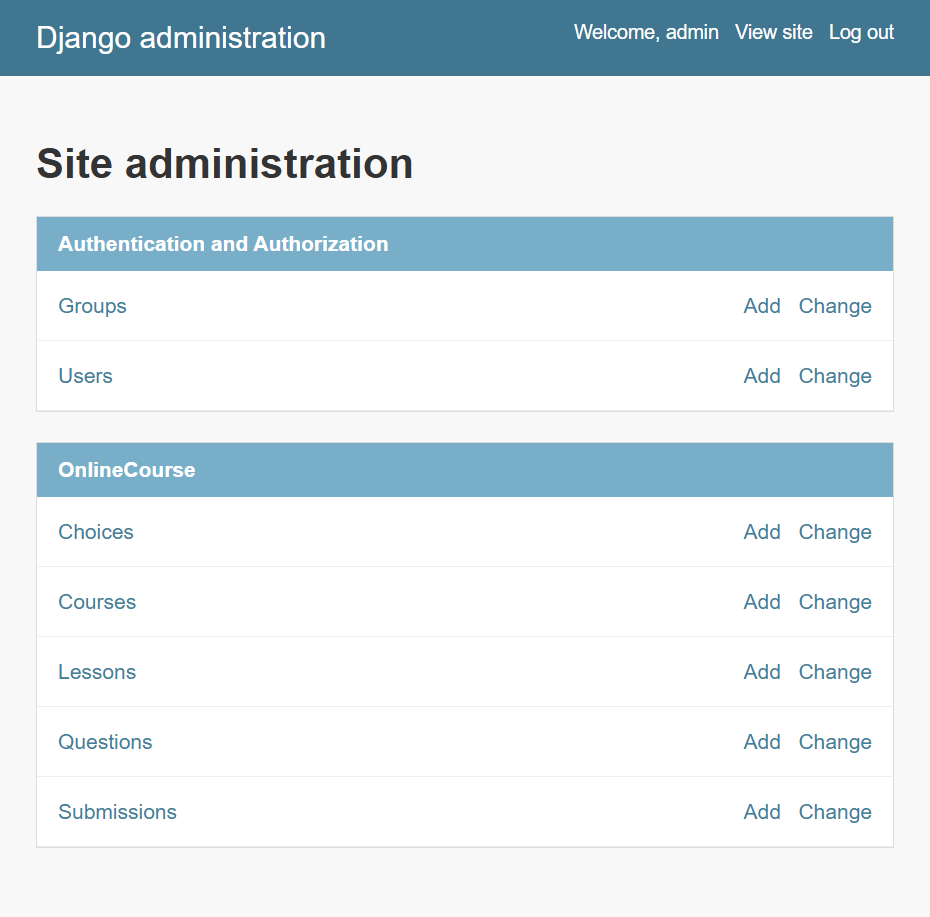
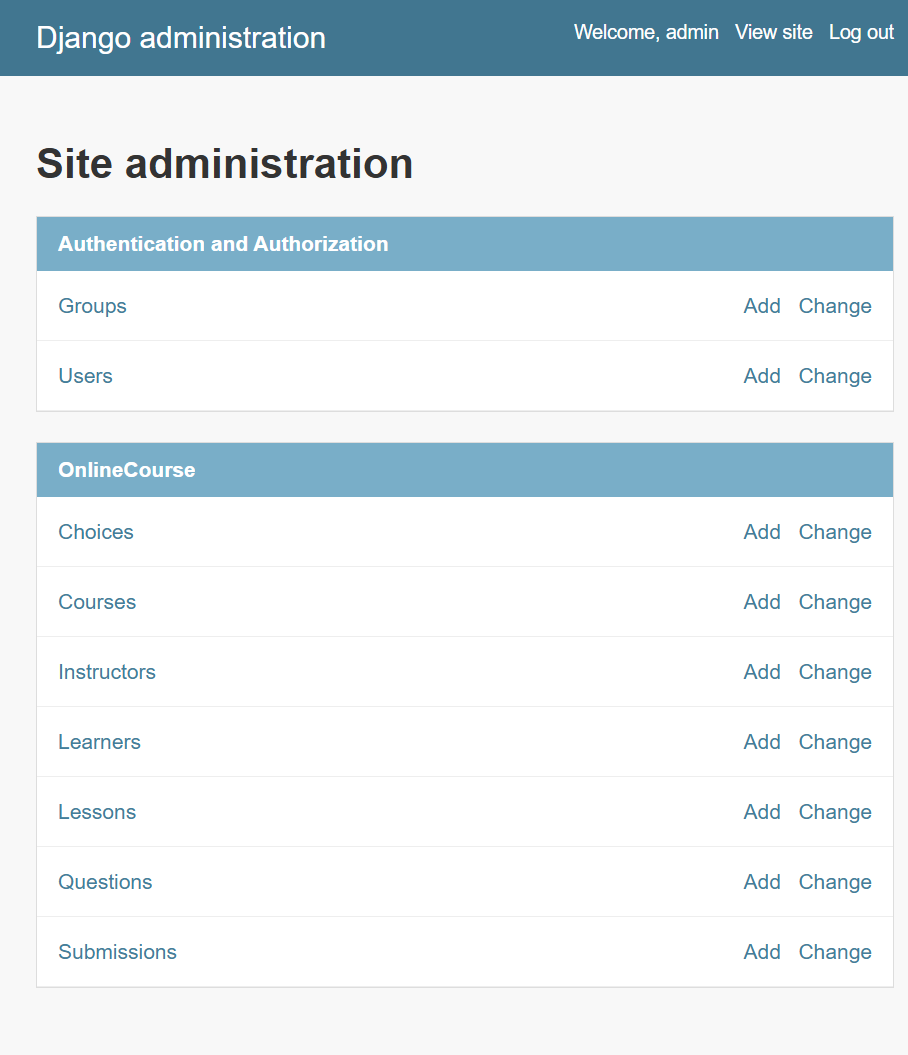
Align assessment models admin and exam flow

diff --git a/templates/exam.html b/templates/exam.html
@@ -6,9 +6,9 @@
   <form method="post" class="card border-0 shadow-sm"><div class="card-body p-4">
     {% csrf_token %}
     {% for question in questions %}
-    <fieldset class="mb-4"><legend class="h5">{{ forloop.counter }}. {{ question.text }}</legend>
-      {% for choice in question.choices.all %}
-      <div class="form-check my-2"><input class="form-check-input" type="radio" name="question_{{ question.id }}" value="{{ choice.id }}" id="choice{{ choice.id }}" required><label class="form-check-label" for="choice{{ choice.id }}">{{ choice.text }}</label></div>
+    <fieldset class="mb-4"><legend class="h5">{{ forloop.counter }}. {{ question.question_text }}</legend>
+      {% for choice in question.choice_set.all %}
+      <div class="form-check my-2"><input class="form-check-input" type="radio" name="question_{{ question.id }}" value="{{ choice.id }}" id="choice{{ choice.id }}" required><label class="form-check-label" for="choice{{ choice.id }}">{{ choice.choice_text }}</label></div>
       {% endfor %}
     </fieldset>
     {% endfor %}
@@ -16,4 +16,3 @@
   </div></form>
 </div></div>
 {% endblock %}
-

diff --git a/screenshot-previews/03-admin-site.html b/screenshot-previews/03-admin-site.html
@@ -9,6 +9,8 @@
 <div class="card"><div class="title">OnlineCourse</div>
 <div class="row"><span class="link">Choices</span><span class="link">Add &nbsp; Change</span></div>
 <div class="row"><span class="link">Courses</span><span class="link">Add &nbsp; Change</span></div>
+<div class="row"><span class="link">Instructors</span><span class="link">Add &nbsp; Change</span></div>
+<div class="row"><span class="link">Learners</span><span class="link">Add &nbsp; Change</span></div>
 <div class="row"><span class="link">Lessons</span><span class="link">Add &nbsp; Change</span></div>
 <div class="row"><span class="link">Questions</span><span class="link">Add &nbsp; Change</span></div>
 <div class="row"><span class="link">Submissions</span><span class="link">Add &nbsp; Change</span></div></div></div></body></html>

diff --git a/templates/course_details_bootstrap.html b/templates/course_details_bootstrap.html
@@ -12,7 +12,7 @@
     </div>
     <h2 class="h4 mb-3">Lessons</h2>
     <div class="list-group shadow-sm">
-      {% for lesson in course.lessons.all %}
+      {% for lesson in course.lesson_set.all %}
       <div class="list-group-item p-4 d-flex justify-content-between align-items-center">
         <div><span class="badge rounded-pill text-bg-light me-2">{{ forloop.counter }}</span><strong>{{ lesson.title }}</strong></div>
         <a class="btn btn-outline-primary" href="{% url 'submit' lesson.id %}">Take exam</a>
@@ -24,4 +24,3 @@
   </div>
 </div>
 {% endblock %}
-

diff --git a/onlinecourse/models.py b/onlinecourse/models.py
@@ -14,8 +14,24 @@ class Course(models.Model):
         return self.name
 
 
+class Instructor(models.Model):
+    user = models.OneToOneField(User, on_delete=models.CASCADE)
+    courses = models.ManyToManyField(Course, blank=True, related_name="instructors")
+
+    def __str__(self):
+        return self.user.get_full_name() or self.user.username
+
+
+class Learner(models.Model):
+    user = models.OneToOneField(User, on_delete=models.CASCADE)
+    courses = models.ManyToManyField(Course, blank=True, related_name="learners")
+
+    def __str__(self):
+        return self.user.get_full_name() or self.user.username
+
+
 class Lesson(models.Model):
-    course = models.ForeignKey(Course, on_delete=models.CASCADE, related_name="lessons")
+    course = models.ForeignKey(Course, on_delete=models.CASCADE)
     title = models.CharField(max_length=200)
     content = models.TextField()
     order = models.PositiveIntegerField(default=1)
@@ -28,29 +44,38 @@ class Lesson(models.Model):
 
 
 class Question(models.Model):
-    lesson = models.ForeignKey(Lesson, on_delete=models.CASCADE, related_name="questions")
-    text = models.CharField(max_length=500)
+    lesson = models.ForeignKey(Lesson, on_delete=models.CASCADE)
+    question_text = models.CharField(max_length=500)
     order = models.PositiveIntegerField(default=1)
 
     class Meta:
         ordering = ["order", "id"]
 
     def __str__(self):
-        return self.text
+        return self.question_text
+
+    @property
+    def text(self):
+        return self.question_text
 
 
 class Choice(models.Model):
-    question = models.ForeignKey(Question, on_delete=models.CASCADE, related_name="choices")
-    text = models.CharField(max_length=300)
+    question = models.ForeignKey(Question, on_delete=models.CASCADE)
+    choice_text = models.CharField(max_length=300)
     is_correct = models.BooleanField(default=False)
 
     def __str__(self):
-        return self.text
+        return self.choice_text
+
+    @property
+    def text(self):
+        return self.choice_text
 
 
 class Submission(models.Model):
     user = models.ForeignKey(User, on_delete=models.CASCADE, null=True, blank=True)
-    lesson = models.ForeignKey(Lesson, on_delete=models.CASCADE, related_name="submissions")
+    lesson = models.ForeignKey(Lesson, on_delete=models.CASCADE)
+    selected_choices = models.JSONField(default=dict, blank=True)
     score = models.PositiveIntegerField(default=0)
     total_questions = models.PositiveIntegerField(default=0)
     submitted_at = models.DateTimeField(auto_now_add=True)
@@ -61,6 +86,8 @@ class Submission(models.Model):
             return 0
         return round(self.score / self.total_questions * 100)
 
+    def get_score(self):
+        return self.score
+
     def __str__(self):
         return f"{self.lesson.title} - {self.score}/{self.total_questions}"
-

diff --git a/onlinecourse/migrations/0002_add_people_and_assessment_fields.py b/onlinecourse/migrations/0002_add_people_and_assessment_fields.py
@@ -1,0 +1,62 @@
+from django.db import migrations, models
+import django.db.models.deletion
+
+
+class Migration(migrations.Migration):
+    dependencies = [
+        ("onlinecourse", "0001_initial"),
+    ]
+
+    operations = [
+        migrations.CreateModel(
+            name="Instructor",
+            fields=[
+                ("id", models.BigAutoField(auto_created=True, primary_key=True, serialize=False, verbose_name="ID")),
+                ("courses", models.ManyToManyField(blank=True, related_name="instructors", to="onlinecourse.course")),
+                ("user", models.OneToOneField(on_delete=django.db.models.deletion.CASCADE, to="auth.user")),
+            ],
+        ),
+        migrations.CreateModel(
+            name="Learner",
+            fields=[
+                ("id", models.BigAutoField(auto_created=True, primary_key=True, serialize=False, verbose_name="ID")),
+                ("courses", models.ManyToManyField(blank=True, related_name="learners", to="onlinecourse.course")),
+                ("user", models.OneToOneField(on_delete=django.db.models.deletion.CASCADE, to="auth.user")),
+            ],
+        ),
+        migrations.RenameField(
+            model_name="question",
+            old_name="text",
+            new_name="question_text",
+        ),
+        migrations.RenameField(
+            model_name="choice",
+            old_name="text",
+            new_name="choice_text",
+        ),
+        migrations.AddField(
+            model_name="submission",
+            name="selected_choices",
+            field=models.JSONField(blank=True, default=dict),
+        ),
+        migrations.AlterField(
+            model_name="choice",
+            name="question",
+            field=models.ForeignKey(on_delete=django.db.models.deletion.CASCADE, to="onlinecourse.question"),
+        ),
+        migrations.AlterField(
+            model_name="lesson",
+            name="course",
+            field=models.ForeignKey(on_delete=django.db.models.deletion.CASCADE, to="onlinecourse.course"),
+        ),
+        migrations.AlterField(
+            model_name="question",
+            name="lesson",
+            field=models.ForeignKey(on_delete=django.db.models.deletion.CASCADE, to="onlinecourse.lesson"),
+        ),
+        migrations.AlterField(
+            model_name="submission",
+            name="lesson",
+            field=models.ForeignKey(on_delete=django.db.models.deletion.CASCADE, to="onlinecourse.lesson"),
+        ),
+    ]

diff --git a/onlinecourse/views.py b/onlinecourse/views.py
@@ -10,18 +10,23 @@ def course_details(request, course_id):
 
 def submit(request, lesson_id):
     lesson = get_object_or_404(Lesson, pk=lesson_id)
-    questions = list(lesson.questions.prefetch_related("choices"))
+    questions = list(lesson.question_set.prefetch_related("choice_set"))
     score = 0
+    selected_choices = {}
     if request.method == "POST":
         for question in questions:
             selected = request.POST.get(f"question_{question.pk}")
-            if selected and question.choices.filter(pk=selected, is_correct=True).exists():
+            selected_choices[str(question.pk)] = selected
+            if selected and question.choice_set.filter(
+                pk=selected, is_correct=True
+            ).exists():
                 score += 1
         submission = Submission.objects.create(
             user=request.user if request.user.is_authenticated else None,
             lesson=lesson,
             score=score,
             total_questions=len(questions),
+            selected_choices=selected_choices,
         )
         return redirect("show_exam_result", submission_id=submission.pk)
     return render(request, "exam.html", {"lesson": lesson, "questions": questions})
@@ -29,6 +34,16 @@ def submit(request, lesson_id):
 
 def show_exam_result(request, submission_id):
     submission = get_object_or_404(
-        Submission.objects.select_related("lesson"), pk=submission_id
+        Submission.objects.select_related("lesson", "user"), pk=submission_id
     )
-    return render(request, "exam_result.html", {"submission": submission})
+    return render(
+        request,
+        "exam_result.html",
+        {
+            "submission": submission,
+            "score": submission.score,
+            "total_questions": submission.total_questions,
+            "percentage": submission.percentage,
+            "selected_choices": submission.selected_choices,
+        },
+    )

diff --git a/onlinecourse/admin.py b/onlinecourse/admin.py
@@ -2,7 +2,15 @@ from django.contrib import admin
 from django.contrib.auth.admin import UserAdmin
 from django.contrib.auth.models import Group, User
 
-from .models import Choice, Course, Lesson, Question, Submission
+from .models import (
+    Choice,
+    Course,
+    Instructor,
+    Learner,
+    Lesson,
+    Question,
+    Submission,
+)
 
 
 class ChoiceInline(admin.TabularInline):
@@ -18,7 +26,7 @@ class QuestionInline(admin.StackedInline):
 
 @admin.register(Question)
 class QuestionAdmin(admin.ModelAdmin):
-    list_display = ("text", "lesson", "order")
+    list_display = ("question_text", "lesson", "order")
     list_filter = ("lesson__course",)
     ordering = ("lesson", "order")
     inlines = [ChoiceInline]
@@ -40,7 +48,7 @@ class CourseAdmin(admin.ModelAdmin):
 
 @admin.register(Choice)
 class ChoiceAdmin(admin.ModelAdmin):
-    list_display = ("text", "question", "is_correct")
+    list_display = ("choice_text", "question", "is_correct")
     list_filter = ("is_correct",)
 
 
@@ -50,8 +58,19 @@ class SubmissionAdmin(admin.ModelAdmin):
     readonly_fields = ("submitted_at",)
 
 
+@admin.register(Instructor)
+class InstructorAdmin(admin.ModelAdmin):
+    list_display = ("user",)
+    filter_horizontal = ("courses",)
+
+
+@admin.register(Learner)
+class LearnerAdmin(admin.ModelAdmin):
+    list_display = ("user",)
+    filter_horizontal = ("courses",)
+
+
 admin.site.unregister(User)
 admin.site.register(User, UserAdmin)
 admin.site.unregister(Group)
 admin.site.register(Group)
-

diff --git a/onlinecourse/urls.py b/onlinecourse/urls.py
@@ -6,11 +6,16 @@ from . import views
 urlpatterns = [
     path("admin/", admin.site.urls),
     path("course/<int:course_id>/", views.course_details, name="course_details"),
-    path("lesson/<int:lesson_id>/submit/", views.submit, name="submit"),
+    path("submit/<int:lesson_id>/", views.submit, name="submit"),
+    path("lesson/<int:lesson_id>/submit/", views.submit, name="lesson_submit"),
     path(
         "exam/result/<int:submission_id>/",
+        views.show_exam_result,
+        name="exam_result",
+    ),
+    path(
+        "show_exam_result/<int:submission_id>/",
         views.show_exam_result,
         name="show_exam_result",
     ),
 ]
-

diff --git a/README.md b/README.md
@@ -2,12 +2,12 @@
 
 This repository implements the requested Django assessment feature:
 
-- **Task 1:** [onlinecourse/models.py](onlinecourse/models.py) defines `Question`, `Choice`, and `Submission` (plus the related `Course` and `Lesson` models).
-- **Task 2:** [onlinecourse/admin.py](onlinecourse/admin.py) imports the seven requested classes and provides `QuestionInline`, `ChoiceInline`, `QuestionAdmin`, and `LessonAdmin`.
+- **Task 1:** [onlinecourse/models.py](onlinecourse/models.py) defines `Question`, `Choice`, and `Submission` (plus `Course`, `Lesson`, `Instructor`, and `Learner`).
+- **Task 2:** [onlinecourse/admin.py](onlinecourse/admin.py) imports and registers all seven OnlineCourse models and provides `QuestionInline`, `ChoiceInline`, `QuestionAdmin`, and `LessonAdmin`.
 - **Task 3:** Run `python manage.py createsuperuser`, then open `/admin/`. Django displays the **Authentication and Authorization** and **OnlineCourse** sections.
-- **Task 4:** [templates/course_details_bootstrap.html](templates/course_details_bootstrap.html) displays the course name and related lessons with Django template tags and Bootstrap.
-- **Task 5:** [onlinecourse/views.py](onlinecourse/views.py) provides `submit` and `show_exam_result`.
-- **Task 6:** [onlinecourse/urls.py](onlinecourse/urls.py) routes both assessment views.
+- **Task 4:** [templates/course_details_bootstrap.html](templates/course_details_bootstrap.html) displays the course name and all `course.lesson_set.all` lessons with Django template tags and Bootstrap.
+- **Task 5:** [onlinecourse/views.py](onlinecourse/views.py) provides `submit` and `show_exam_result`, including selected choices, scoring, and result context.
+- **Task 6:** [onlinecourse/urls.py](onlinecourse/urls.py) routes the course submit and submission-result views.
 - **Task 7:** [templates/exam_result.html](templates/exam_result.html) displays the successful “Congratulations!” result, score, and progress bar.
 
 ## Run locally
